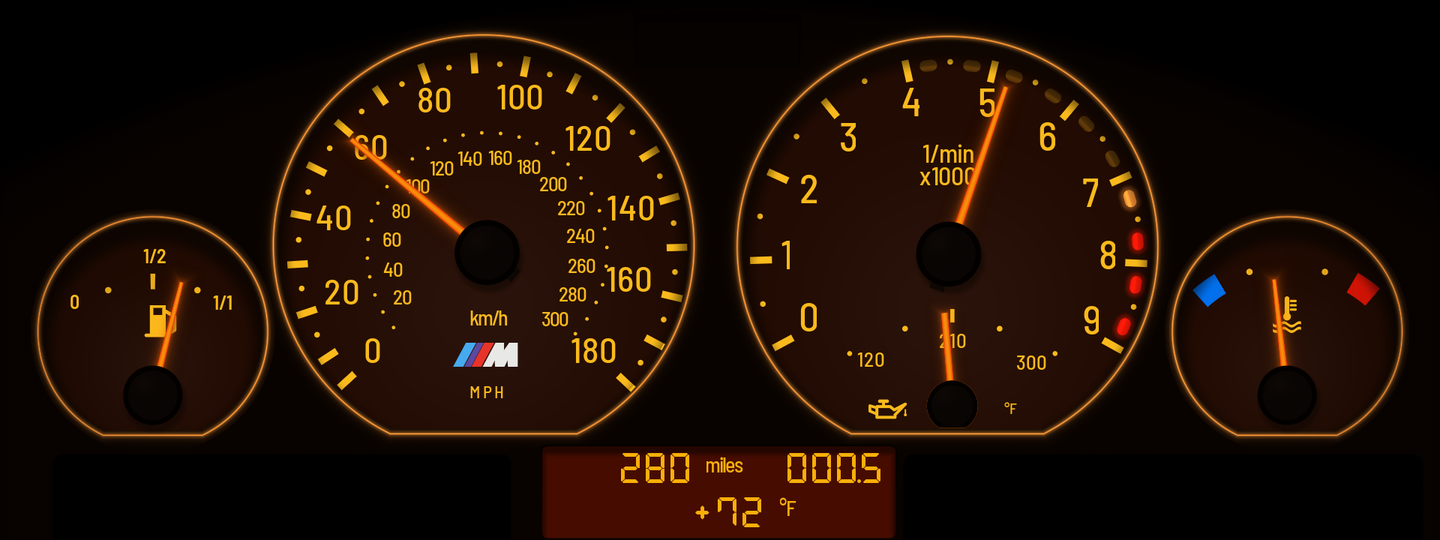
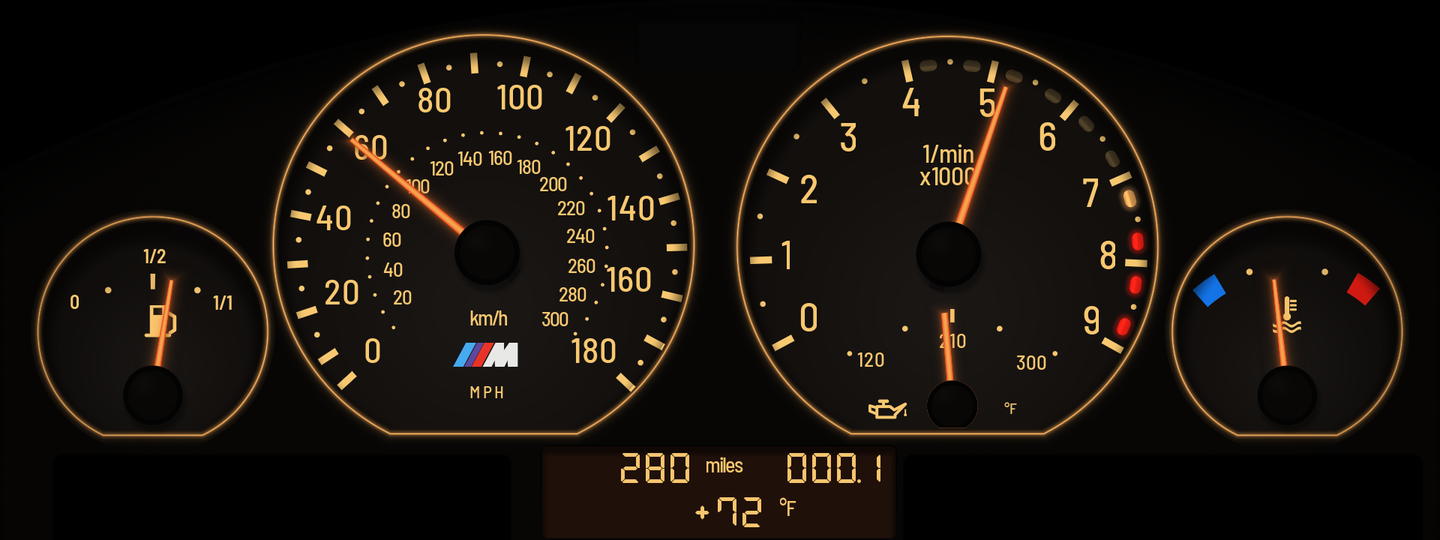
E46 M3: softer, less orange night colours (0.19.3)
Near-black dials instead of red-brown, a pale amber glow on the chrome rings and
lamps, soft amber print, amber-orange needles, and a neutral LCD window.

Claude-Session: https://claude.ai/code/session_014K4TycZAsMnh3DukCFoaLT

diff --git a/shared/hud_themes.js b/shared/hud_themes.js
@@ -300,13 +300,14 @@ THEMES.e46m3 = Object.assign({}, THEMES.e36, {
     needle: [250, 92, 10, 255], mneedle: [250, 92, 10, 255], hub: [20, 20, 20, 255],
     red: [236, 18, 14, 255], blue: [36, 108, 232, 255], orange: [255, 140, 0, 255],
     well: [42, 11, 2, 255], lcd: [255, 128, 12, 255], strip: [0, 0, 0, 255],
-    night: {     // after sunset, after the night sketch (design/e46m3-night-reference.png): amber print and lamps on
-                 // near-black red-brown dials, orange needles, the rings lit orange (the shader, u_light 0)
-        fg: [250, 186, 28, 255], dim: [250, 186, 28, 255], arc: [250, 186, 28, 255], head: [250, 186, 28, 255],
-        bezel: [3, 1, 0, 255], face: [9, 3, 0, 255], dial: [34, 11, 2, 255], mark: [250, 186, 28, 255],
-        needle: [248, 105, 5, 255], mneedle: [248, 105, 5, 255], hub: [9, 5, 3, 255],
-        red: [238, 22, 6, 255], blue: [2, 114, 241, 255], orange: [243, 144, 51, 255],
-        well: [70, 12, 0, 255], lcd: [250, 176, 8, 255], strip: [0, 0, 0, 255],
+    night: {     // after sunset, after the night sketch (design/e46m3-night-reference.png), toned down on the car (0.26.4):
+                 // a soft amber print and lamps on near-black dials, amber-orange needles, the rings lit a pale amber
+                 // (the shader, u_light 0)
+        fg: [248, 200, 112, 255], dim: [248, 200, 112, 255], arc: [248, 200, 112, 255], head: [248, 200, 112, 255],
+        bezel: [3, 3, 3, 255], face: [7, 6, 5, 255], dial: [18, 15, 13, 255], mark: [248, 200, 112, 255],
+        needle: [245, 122, 48, 255], mneedle: [245, 122, 48, 255], hub: [8, 7, 6, 255],
+        red: [238, 30, 20, 255], blue: [20, 118, 236, 255], orange: [228, 160, 86, 255],
+        well: [32, 16, 10, 255], lcd: [248, 198, 110, 255], strip: [0, 0, 0, 255],
     },
 });
 // every theme: the shift-point red, used by "hot" (the gear and SHIFT at the shift point, the rev bar past it)
